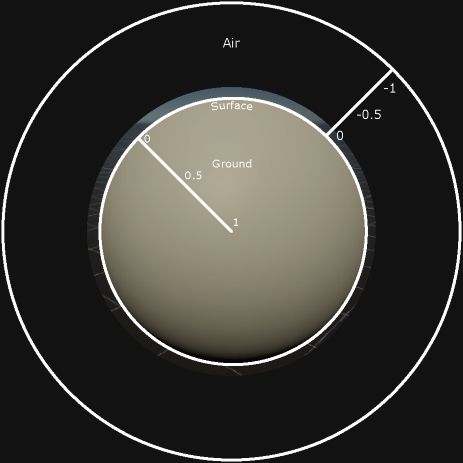
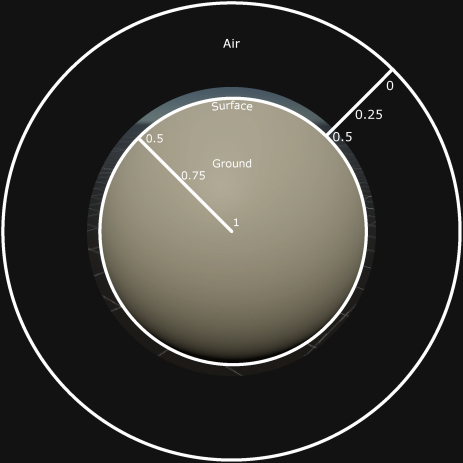
Updated terrain generation post with new gradient method and the respective images

diff --git a/source/_posts/terrain-generation.md b/source/_posts/terrain-generation.md
@@ -179,7 +179,7 @@ The orange points at the corners indicate that they are part of the ground, whil
 
 ![Marching Example](/images/MarchingExample.png)
 
-The above image was constructed by setting all the voxels' density values within a spherical radius of the center of the sphere to +1 (ground / filled state), and outside of the radius to -1 (air / empty state). The algorithm considers the transition between the ground (positive values) and the air (negative values) to be where the surface manifests, which is why our surface is a radial shape from the center of the sphere.
+The above image was constructed by setting all the voxels' density values within a spherical radius of the center of the sphere to +1 (ground / filled state), and outside of the radius to 0 (air / empty state). The algorithm considers the transition between the ground (positive values) and the air (negative values) to be where the surface manifests, which is why our surface is a radial shape from the center of the sphere.
 
 ### Smoothing
 
@@ -187,11 +187,11 @@ Now we have a solid terrain to work with, but something is missing. What about t
 
 ![Marching Example Smooth](/images/MarchingExampleSmooth.png)
 
-One method of doing so is by setting the density values to a gradient ranging from +1 to -1, where +1 is the center of the sphere, 0 is the surface, and -1 is the boundary of our voxel grid. In this case, the boundary would be `2 * radius` or the `diameter` of the "world sphere".
+One method of doing so is by setting the density values to a gradient ranging from +1 to 0, where +1 is the center of the sphere, 0.5 is the surface, and 0 is the boundary of our voxel grid. In this case, the boundary would be `2 * radius` or the `diameter` of the "world sphere".
 
 ![Marching Cubes Density Gradient](/images/MarchingCubesDensityGradient.png)
 
-Another method of achieving this effect is through a similar technique. Instead of treating the whole "world sphere" as a gradient, only treat the region around the surface as a gradient. This becomes especially useful when applied in a game setting since most nodes are either `1` or `-1` and not a floating point value.
+Another method of achieving this effect is through a similar technique. Instead of treating the whole "world sphere" as a gradient, only treat the region around the surface as a gradient. This becomes especially useful when applied in a game setting since most nodes are either `1` or `0` and not a floating point value.
 
 ![Marching Cubes Density Gradient](/images/MarchingCubesDensityGradientEnhanced.png)
 
